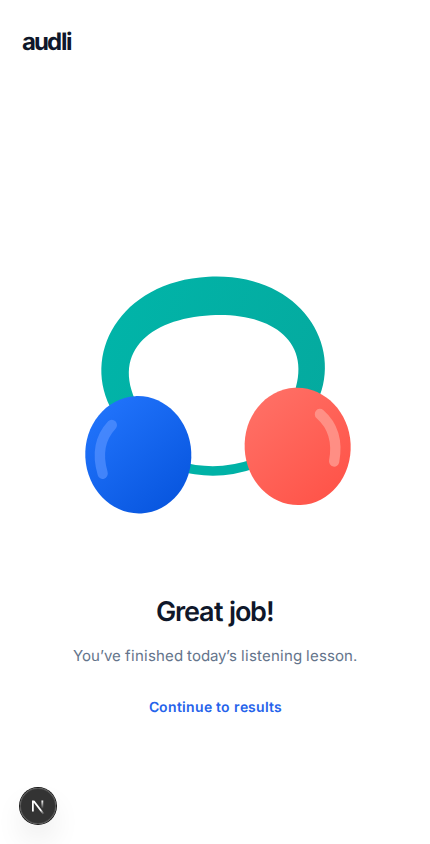
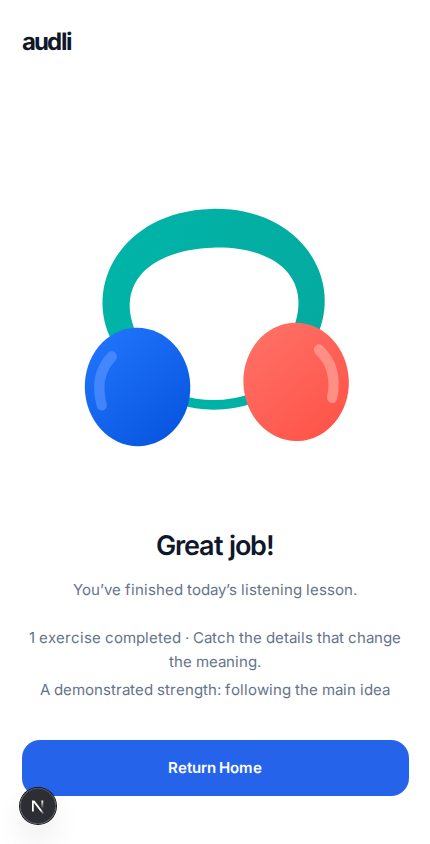
style(AUD-73): keep Pip full size except on short viewports

Changed region(s): [[0.0302, 0.2464, 0.9674, 0.955]]

diff --git a/web/app/globals.css b/web/app/globals.css
@@ -434,8 +434,11 @@ main.audli-loading-screen { max-width: none; min-height: 100svh; margin: 0; bord
 .celebration-content p { color: var(--muted); }
 
 .celebration-content .mascot-overlay { inset: -10%; }
-/* One screen: Pip, the statistics and Return Home must fit together on small phones, so Pip shares the height. */
-.lesson-success .celebration-content .audli-mascot { width: min(80vw, 36svh, 400px); height: min(80vw, 36svh, 400px); }
+/* One screen: Pip, the statistics and Return Home share the height. Pip keeps its full size on ordinary phones and
+   shrinks only on short viewports so Return Home stays within reach without scrolling. */
 .lesson-success .completion-summary { margin: .25rem 0 1rem; }
 .lesson-success .completion-summary p { margin: .25rem 0; }
+@media (max-height: 700px) {
+  .lesson-success .celebration-content .audli-mascot { width: min(80vw, 34svh, 400px); height: min(80vw, 34svh, 400px); }
+}
 .wrapup-status { color: var(--muted); }
